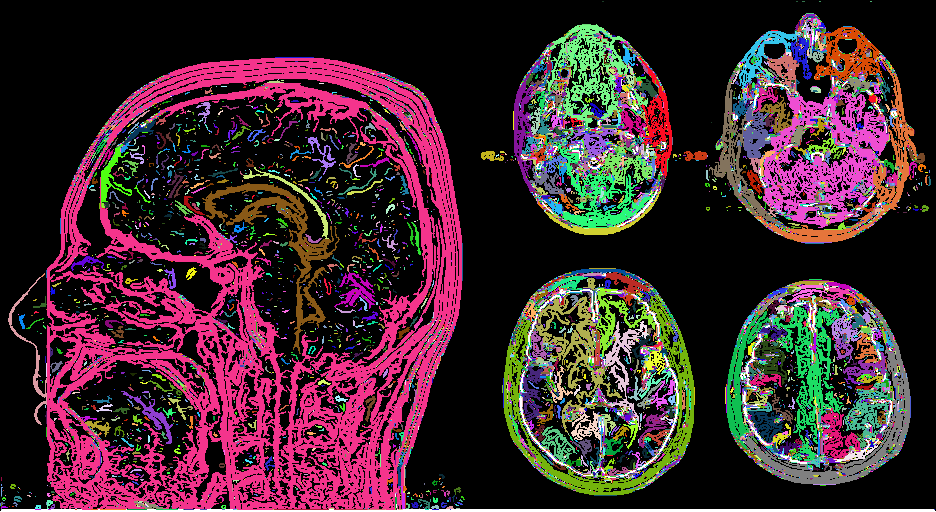
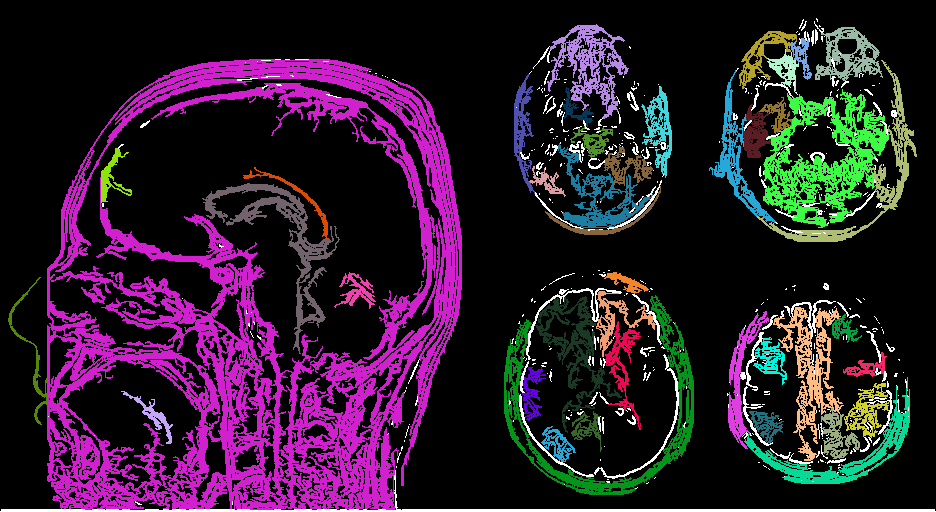
clear small components

diff --git a/src/main.c b/src/main.c
@@ -3,7 +3,7 @@
 int main() {
     
     int width, height;
-    char* filename = "img/input.png";
+    char* filename = "img/input2.png";
     struct pixel **image;
     int i;
 
@@ -24,7 +24,7 @@ int main() {
     gaussian_blur(image_wb, height, width);
     sober_filter(image_wb, height, width);
 
-    add_contrast(image_wb, height, width, 200, 20);
+    add_contrast(image_wb, height, width, 150, 20);
    
     // write_png_wb(image_wb, height, width, "img/out1.png");
     // add_contrast(image_wb, height, width, 200, 50);
@@ -36,8 +36,12 @@ int main() {
 
     int n = connected_components(image_wb, height, width, 20);
     printf("%d\n", n);
+    int *components_arr = calloc(n, sizeof(int));
 
-    write_png_color(image_wb, height, width, "img/output.png");
+    count_pixel_in_components(image_wb, height, width, components_arr);
+    write_png_color(image_wb, height, width, components_arr, 300, "img/output2.png");
+
+    free(components_arr);
     for (i = 0; i < height; i++)
         free(image[i]);
     free(image);

diff --git a/src/image.c b/src/image.c
@@ -53,7 +53,7 @@ int write_png_wb(struct pixel_wb **image_wb, int height, int width, char *filena
     return error;
 }
 
-int write_png_color(struct pixel_wb **image_wb, int height, int width, char *filename){
+int write_png_color(struct pixel_wb **image_wb, int height, int width, int *componets_arr, int min_pixels, char *filename){
     unsigned char *image = malloc(sizeof(unsigned char) * width * height * 4);
     int i, j, idx, comp;
     for (i = 0; i < height; i++)
@@ -61,7 +61,7 @@ int write_png_color(struct pixel_wb **image_wb, int height, int width, char *fil
             idx = (i * width + j) * 4;
             if (image_wb[i][j].c == 255)
                 image[idx] = image[idx + 1] = image[idx + 2] = 255;
-            else if (image_wb[i][j].c == 0)
+            else if (image_wb[i][j].c == 0 || componets_arr[image_wb[i][j].component] <= min_pixels)
                 image[idx] = image[idx + 1] = image[idx + 2] = 0;
             else{
                 comp = image_wb[i][j].component;

diff --git a/include/image.h b/include/image.h
@@ -19,5 +19,5 @@ int write_png_wb(struct pixel_wb **image_wb, int height, int width, char *filena
 int convert_to_wb(struct pixel **image, int height, int width, struct pixel_wb **image_wb);
 struct pixel_wb **copy_image_wb(struct pixel_wb **image_wb, int height, int width);
 int write_png_wb(struct pixel_wb **image_wb, int height, int width, char *filename);
-int write_png_color(struct pixel_wb **image_wb, int height, int width, char *filename);
+int write_png_color(struct pixel_wb **image_wb, int height, int width, int *componets_arr, int min_pixels, char *filename);
 #endif

diff --git a/src/components.c b/src/components.c
@@ -35,3 +35,11 @@ int connected_components(struct pixel_wb **image_wb, int height, int width, int 
 
     return idx_component;
 }
+
+void count_pixel_in_components(struct pixel_wb **image_wb, int height, int width, int *componets_arr){
+    int i, j;
+    for (i = 0; i < height; i++)
+        for (j = 0; j < width; j++)
+            componets_arr[image_wb[i][j].component]++;
+    return;
+}   

diff --git a/include/components.h b/include/components.h
@@ -8,5 +8,5 @@
 
 void DFS(struct pixel_wb **image_wb, int height, int width, int i, int j, int diff, int idx_component);
 int connected_components(struct pixel_wb **image_wb, int height, int width, int diff);
-
+void count_pixel_in_components(struct pixel_wb **image_wb, int height, int width, int *componets_arr);
 #endif

diff --git a/README.md b/README.md
@@ -1,8 +1,9 @@
 # "Большая задача" -- 2 семестр 1 курс ФКИ 
+___
 
 ### Компиляция и запуск проекта 
 
 ```
-    make && ./a.out
+    make && ./BigTask
 ```
 
